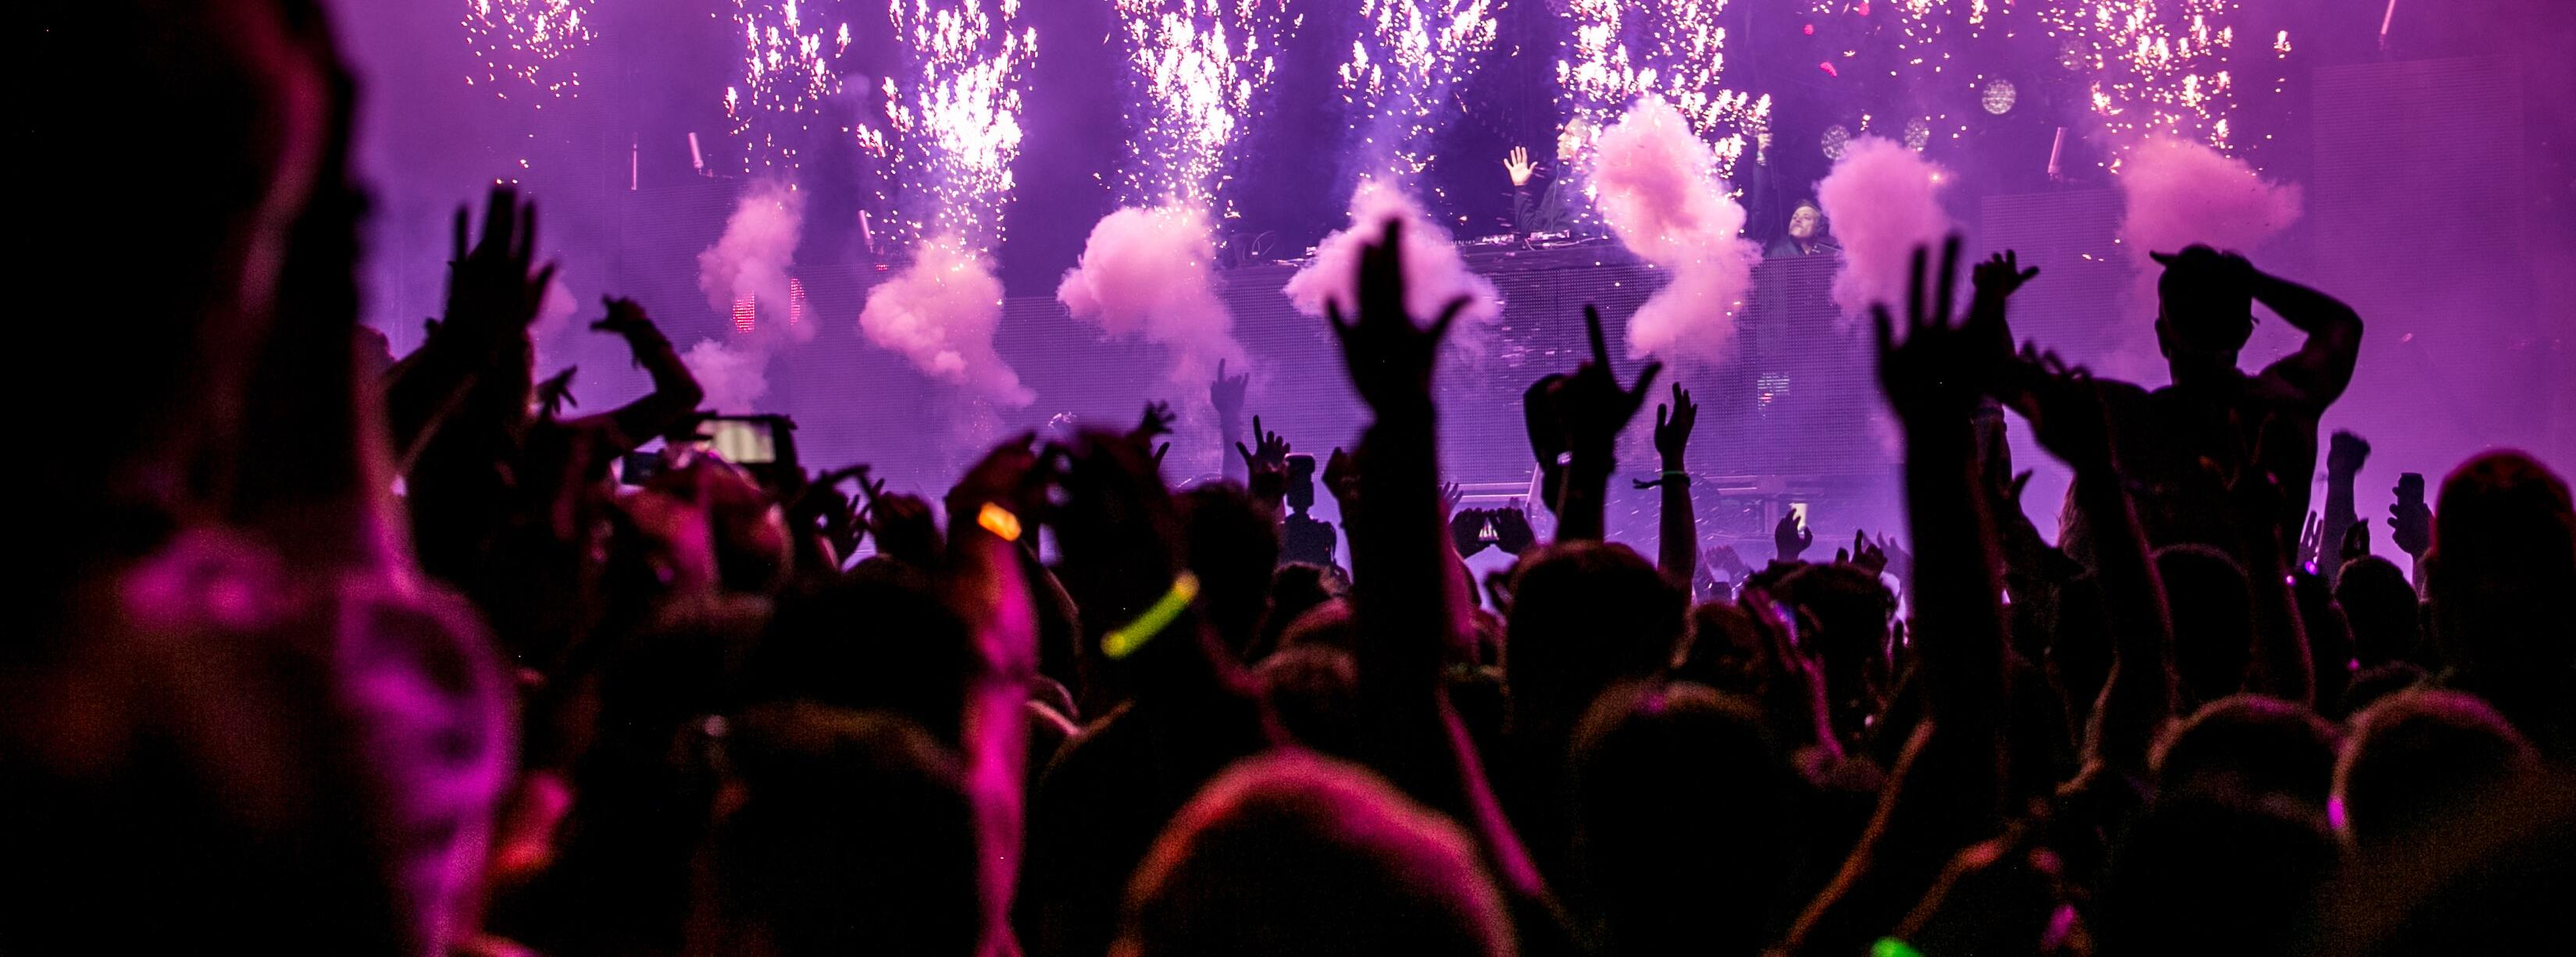
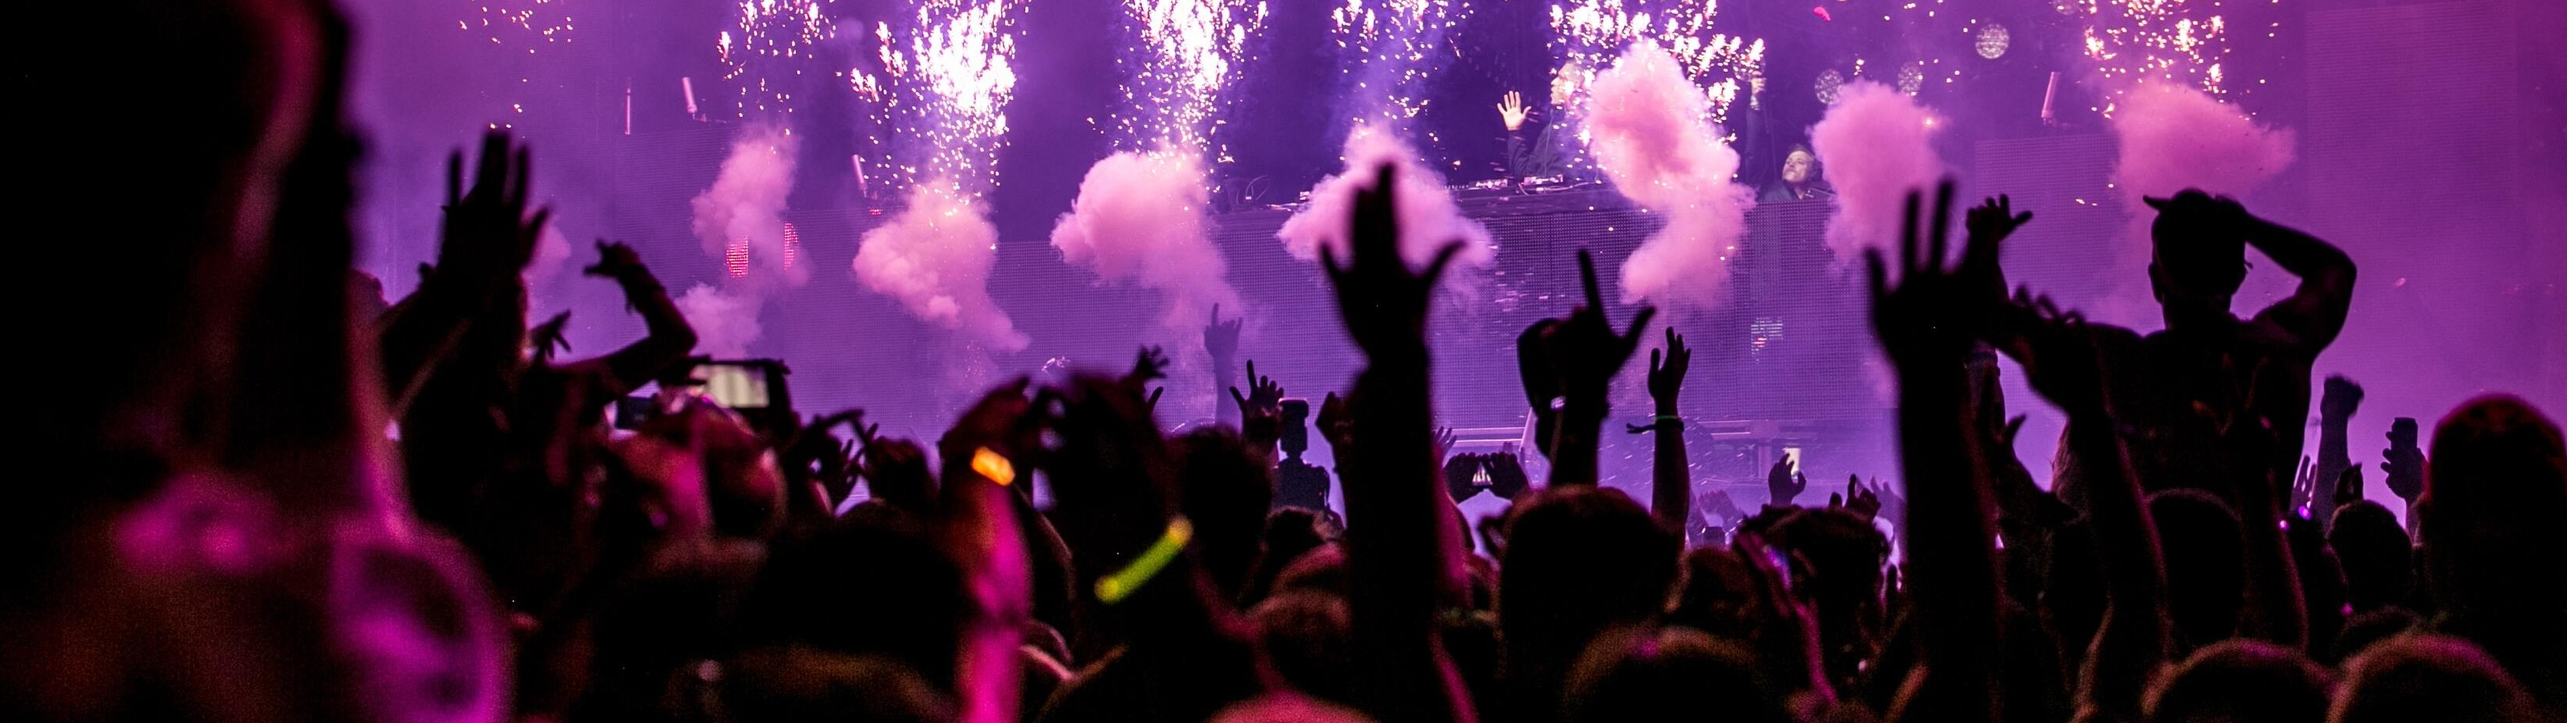
Restart Draft

diff --git a/src/components/HomeHero.jsx b/src/components/HomeHero.jsx
@@ -16,15 +16,9 @@ const SLIDER_SETTINGS = {
   pauseOnHover: true,
 };
 
-// const CARDS = [
-//   "./backgroundShadyBanner.jpeg",
-//   "./backgroundShadyBanner2.JPG",
-//   "./backgroundShadyBanner3.JPG",
-// ];
-
 const HomeHero = () => {
   return (
-    <Box position={"relative"} height="57vh" width="97%" overflow={"hidden"}>
+    <Box position={"relative"} height="40vh" width="97%" overflow={"hidden"}>
       {/* CSS files for react-slick */}
       <link
         rel="stylesheet"
@@ -42,7 +36,7 @@ const HomeHero = () => {
           as={motion.div}
           initial="initial"
           animate="animate"
-          height="57vh"
+          height="40vh"
           width="97%"
           bg="#810CA8"
           rounded="lg"
@@ -94,7 +88,7 @@ const HomeHero = () => {
           as={motion.div}
           initial="initial"
           animate="animate"
-          height="57vh"
+          height="40vh"
           width="97%"
           bg="#810CA8"
           rounded="lg"
@@ -146,7 +140,7 @@ const HomeHero = () => {
           as={motion.div}
           initial="initial"
           animate="animate"
-          height="57vh"
+          height="40vh"
           width="97%"
           bg="#810CA8"
           rounded="lg"

diff --git a/src/components/Header.jsx b/src/components/Header.jsx
@@ -15,11 +15,14 @@ const Header = () => {
       <Flex direction="row" justifyContent={"space-between"} pt={2}>
         <Heading
           as="h1"
-          fontSize={{ base: "lg", md: "lg" }}
+          fontSize={{ base: "3xl", md: "3xl" }}
           color="accent.light"
           fontWeight={200}
-          pl={2}
-        ></Heading>
+          // pl={2}
+          pt={5}
+          pb={5}
+        >
+        </Heading>
         <Box dir="Row" pb={4}>
           <Flex>
             <NavLink to="/user">
@@ -36,9 +39,7 @@ const Header = () => {
                 walletConnectors: [EthereumWalletConnectors],
               }}
             >
-              <DynamicWidget
-                innerButtonComponent={<button>Sign In</button>}
-              />
+              <DynamicWidget innerButtonComponent={<button>Sign In</button>} />
             </DynamicContextProvider>
           </Flex>
         </Box>

diff --git a/src/pages/HomePage.jsx b/src/pages/HomePage.jsx
@@ -21,7 +21,7 @@ const HomePage = () => {
         <HomeHero />
         <TrackSection title="New Releases" />
         <ArtistSection />
-        <Genres/>
+        <Genres />
         <TrackSection title="New Releases" />
         <ArtistSection />
         <TrackSection title="New Releases" />
